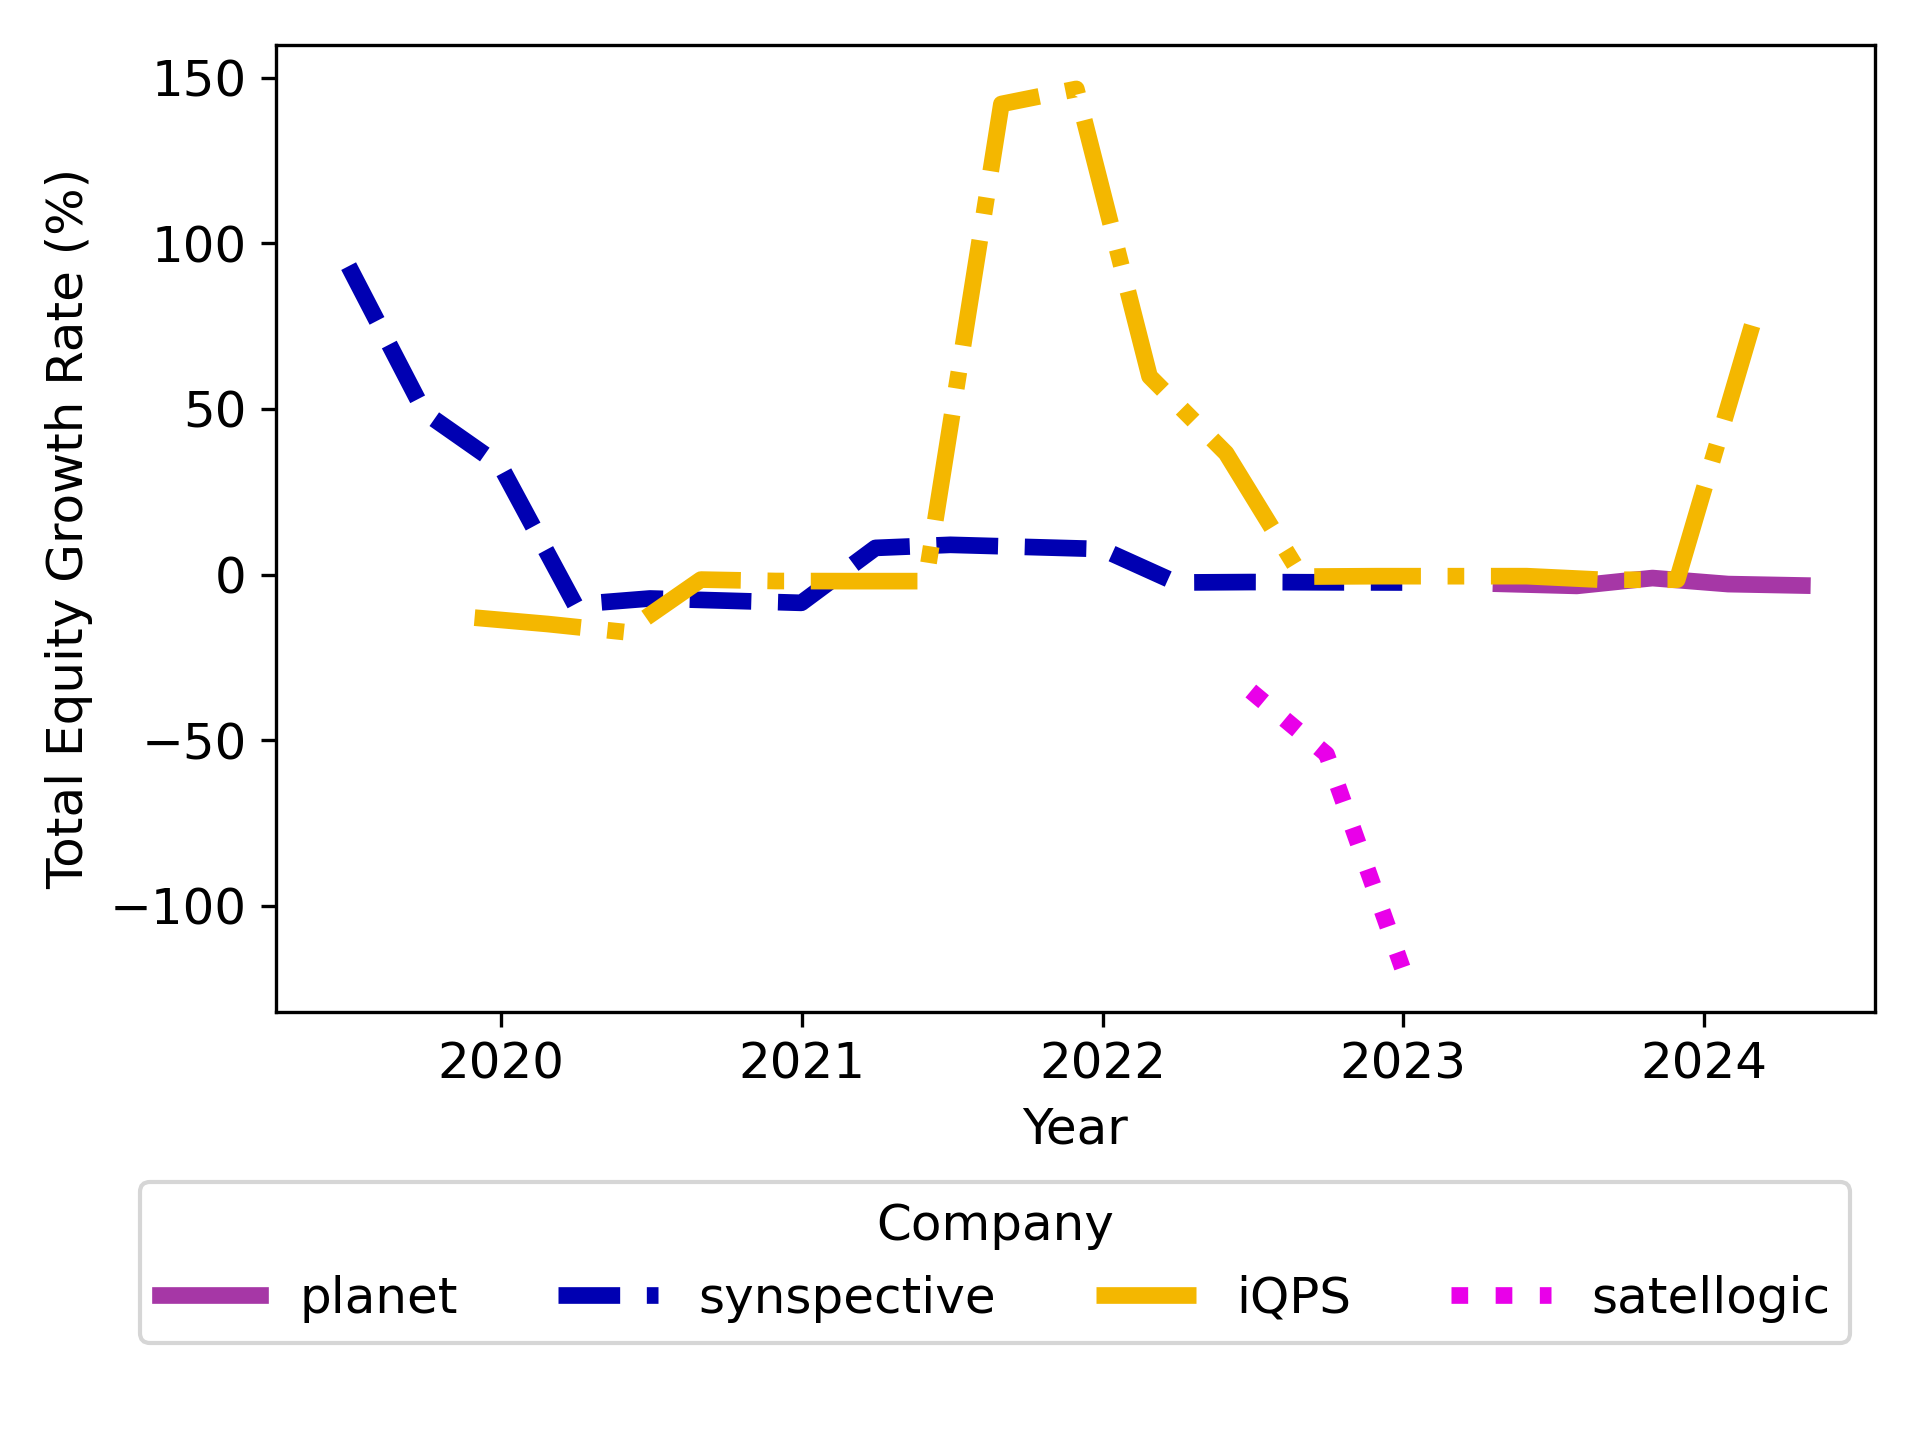
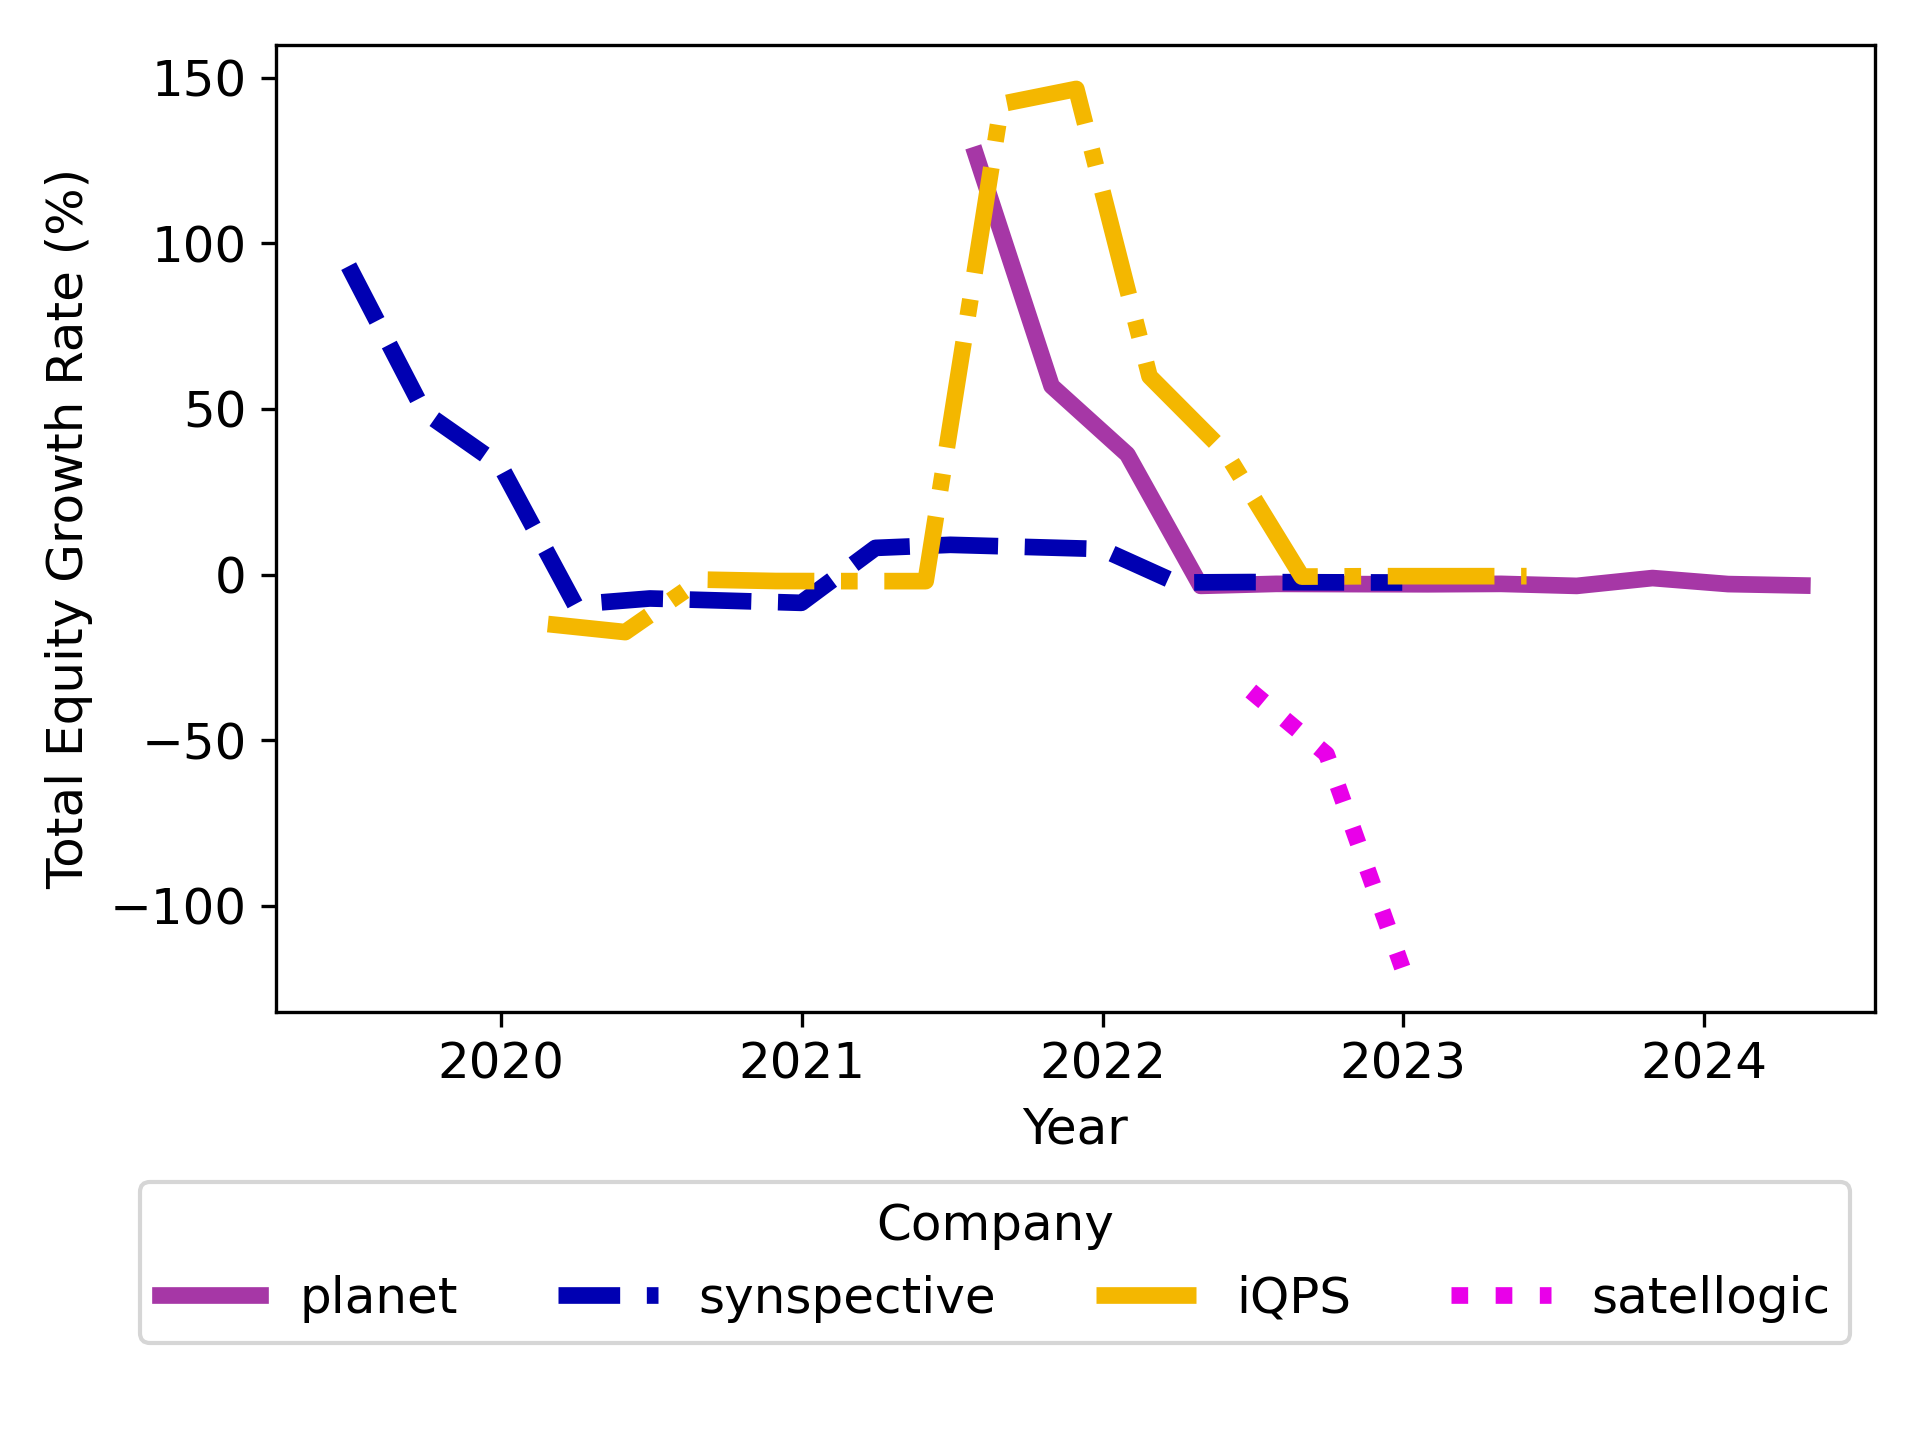
[RESTRUCTURING] repository reorganization, updates to data_loading.py given new data

diff --git a/src/data_loading.py b/src/data_loading.py
@@ -3,25 +3,10 @@ import numpy as np
 import json
 import matplotlib.pyplot as plt
 from statsmodels.graphics.tsaplots import plot_acf, plot_pacf
-from statsmodels.tsa.stattools import adfuller
-from statsmodels.tsa.vector_ar.vecm import coint_johansen
-from statsmodels.tsa.api import VAR
-from statsmodels.tsa.vector_ar.vecm import VECM
+from utils import *
 
-def adf_test(series, name):
-    result = adfuller(series)
-    # print('ADF Statistic:', result[0])
-    # print('p-value:', result[1])
-    if result[1] < 0.05:
-        print(f'{name} is stationary')
-    else:
-        print(f'{name} is non-stationary')
-
-# Store company-specific parameters (plotting style, name, filename)
-# in a json dictionary for later lookup
-company_keys = './company_keys.json'
-sheet_name = 'consolidated'
-
+# Lookup company-specific parameters from dictionary (plotting style, name, filename)
+company_keys = './financial_data/company_keys.json'
 keys = json.load(open(company_keys))
 
 # Set up plotting parameters outside of for loop.
@@ -59,18 +44,35 @@ for i, key in enumerate(keys):
     print("KEY: ", key)
     filename = keys[f"{key}"]["file"]
     data = pd.read_excel(f"./financial_data/{filename}","consolidated")
-        
-    totalAssets = data["Total Assets"]
-    totalLiabilities = data["Total Liabilities"]
-    totalEquity = data["Total Equity"]
+
+    start_date = pd.to_datetime(keys[f"{key}"]["start_date"])
+    end_date = pd.to_datetime(keys[f"{key}"]["end_date"])
+    data['Quarter'] = pd.to_datetime(data['Quarter'])
+
+    filtered_data = data[data['Quarter'].between(start_date, end_date)]
+    
+    totalAssets = filtered_data["Total Assets"].values
+    totalLiabilities = filtered_data["Total Liabilities"].values
+    totalEquity = filtered_data["Total Equity"].values
+    if key == "synspective" or key == "satellogic":
+        print("not enough revenue data")
+    else:
+        revenue = filtered_data["Revenue"].values
+        diffRevenue = np.diff(revenue)
+        diff2Revenue = np.diff(diffRevenue)
+        lnRevenue = np.log(revenue)
+        adf_test(revenue, "revenue")
+        adf_test(lnRevenue, "lnRevenue")
+        adf_test(diffRevenue, "diffRevenue")
+        adf_test(diff2Revenue, "diff2Revenue")
 
     # Transformed data
     diffAssets = np.diff(totalAssets)
     diffLiabilities = np.diff(totalLiabilities)
     diffEquity = np.diff(totalEquity)
     diff2Assets = np.diff(np.diff(totalAssets))
-    diff2Liabilities = np.diff(np.diff(totalLiabilities))
-    diff2Equity = np.diff(np.diff(totalEquity))
+    diff2Liabilities = np.diff(diffLiabilities)
+    diff2Equity = np.diff(diffEquity)
     lnAssets = np.log(totalAssets)
     lnLiabilities = np.log(totalLiabilities)
     lnEquity = np.log(totalEquity)
@@ -92,38 +94,14 @@ for i, key in enumerate(keys):
     except:
         print("Error in testing for stationarity.")
 
-    frame = np.column_stack((diff2Assets,diff2Liabilities,diff2Equity))
+    frame = np.column_stack((diffAssets,diffLiabilities))
 
     try:
-        # Perform Johansen cointegration test
-        johansen_result = coint_johansen(frame, 0, 1)
-        # print('Eigenvalues:', johansen_result.eig)
-        # print('Trace Statistic:', johansen_result.lr1)
-        # print('Critical Values:', johansen_result.cvt)
-
-        # Determine the optimal lag length
-        model = VAR(frame)
-        lag_order = model.select_order()
-
-        # Choose an available criterion, e.g., 'aic', 'bic', 'hqic'
-        if 'aic' in lag_order.selected_orders:
-            chosen_lag = lag_order.selected_orders['aic']
-        elif 'bic' in lag_order.selected_orders:
-            chosen_lag = lag_order.selected_orders['bic']
-        elif 'hqic' in lag_order.selected_orders:
-            chosen_lag = lag_order.selected_orders['hqic']
-        else:
-            raise ValueError("No valid criterion found in the selected orders.")
-
-        print(f'Chosen lag length based on available criterion: {chosen_lag}')
-
-        # coint_rank is number of non-zero eigenvalues minus 1
-        vecm = VECM(frame, k_ar_diff=chosen_lag, coint_rank=1, dates=data["Quarter"])
-        vecm_fit = vecm.fit()
+        vecm = johansen_vecm(filtered_data["Quarter"][2:], frame)
+        print(vecm.summary())
     except:
         print(f"skipping {key} vecm")
-    # print(vecm_fit.summary())
-
+    
     logAssets = np.diff(lnAssets)
     logLiabilities = np.diff(lnLiabilities)
     logEquity = np.diff(lnEquity)
@@ -131,14 +109,14 @@ for i, key in enumerate(keys):
     divLiabilities = []
     divEquity = []
     for j in range(1, len(diffAssets)):
-        divAssets.append(((diffAssets[j]/totalAssets[j-1]))*100)
-        divLiabilities.append(((diffLiabilities[j]/totalLiabilities[j-1]))*100)
-        divEquity.append(((diffEquity[j]/totalEquity[j-1]))*100)
+        divAssets.append((diffAssets[j]/totalAssets[j-1])*100)
+        divLiabilities.append((diffLiabilities[j]/totalLiabilities[j-1])*100)
+        divEquity.append((diffEquity[j]/totalEquity[j-1])*100)
 
     companyColor = np.asarray(keys[key]["color"])/255
-    ax1.plot(data["Quarter"][2:], divAssets, color=companyColor, linestyle=keys[key]["style"], label=key, linewidth=4)
-    ax2.plot(data["Quarter"][2:], divLiabilities, color=companyColor, linestyle=keys[key]["style"], label=key, linewidth=4)
-    ax3.plot(data["Quarter"][2:], divEquity, color=companyColor, linestyle=keys[key]["style"], label=key, linewidth=4)
+    ax1.plot(filtered_data["Quarter"][2:], divAssets, color=companyColor, linestyle=keys[key]["style"], label=key, linewidth=4)
+    ax2.plot(filtered_data["Quarter"][2:], divLiabilities, color=companyColor, linestyle=keys[key]["style"], label=key, linewidth=4)
+    ax3.plot(filtered_data["Quarter"][2:], divEquity, color=companyColor, linestyle=keys[key]["style"], label=key, linewidth=4)
     plot_acf(logAssets, lags=3, title=key, ax = ax4[i//2, i%2], color = 'red')
     plot_pacf(logAssets, lags=2, title=key, ax = ax5[i//2, i%2], color = 'red')
 

diff --git a/src/utils.py b/src/utils.py
@@ -1,0 +1,41 @@
+from statsmodels.tsa.stattools import adfuller
+from statsmodels.tsa.vector_ar.vecm import coint_johansen
+from statsmodels.tsa.api import VAR
+from statsmodels.tsa.vector_ar.vecm import VECM
+
+def adf_test(series, name):
+    result = adfuller(series)
+    # print('ADF Statistic:', result[0])
+    # print('p-value:', result[1])
+    if result[1] < 0.05:
+        print(f'{name} is stationary')
+    else:
+        print(f'{name} is non-stationary')
+    
+def johansen_vecm(date_range, frame):
+    # Perform Johansen cointegration test
+    johansen_result = coint_johansen(frame, 0, 1)
+    # print('Eigenvalues:', johansen_result.eig)
+    # print('Trace Statistic:', johansen_result.lr1)
+    # print('Critical Values:', johansen_result.cvt)
+
+    # Determine the optimal lag length
+    model = VAR(frame)
+    lag_order = model.select_order()
+
+    # Choose an available criterion, e.g., 'aic', 'bic', 'hqic'
+    if 'aic' in lag_order.selected_orders:
+        chosen_lag = lag_order.selected_orders['aic']
+    elif 'bic' in lag_order.selected_orders:
+        chosen_lag = lag_order.selected_orders['bic']
+    elif 'hqic' in lag_order.selected_orders:
+        chosen_lag = lag_order.selected_orders['hqic']
+    else:
+        raise ValueError("No valid criterion found in the selected orders.")
+
+    print(f'Chosen lag length based on available criterion: {chosen_lag}')
+
+    # coint_rank is number of non-zero eigenvalues minus 1
+    vecm = VECM(frame, k_ar_diff=chosen_lag, coint_rank=1, dates=date_range)
+    vecm_fit = vecm.fit()
+    return vecm_fit

diff --git a/src/test.py b/src/test.py
@@ -1,0 +1,42 @@
+import matplotlib.pyplot as plt
+import matplotlib.dates as mdates
+import pandas as pd
+from datetime import datetime
+
+# Example event data
+events = [
+    {'date': '2024-01-01', 'event': 'New Year'},
+    {'date': '2024-02-14', 'event': 'Valentine\'s Day'},
+    {'date': '2024-04-01', 'event': 'April Fool\'s Day'},
+    {'date': '2024-07-04', 'event': 'Independence Day'},
+    {'date': '2024-10-31', 'event': 'Halloween'},
+    {'date': '2024-12-25', 'event': 'Christmas'}
+]
+
+# Convert to DataFrame and parse dates
+df = pd.DataFrame(events)
+df['date'] = pd.to_datetime(df['date'])
+
+# Plot the timeline
+fig, ax = plt.subplots(figsize=(10, 3))
+
+# Plot the events
+ax.plot(df['date'], [1] * len(df), "|", ms=50, color='gray')
+
+# Annotate the events
+for idx, row in df.iterrows():
+    ax.text(row['date'], 1.1, row['event'], rotation=45, ha='right')
+
+# Format the x-axis
+ax.get_yaxis().set_visible(False)
+ax.xaxis.set_major_locator(mdates.MonthLocator())
+ax.xaxis.set_major_formatter(mdates.DateFormatter('%Y-%m-%d'))
+plt.setp(ax.get_xticklabels(), rotation=45, ha='right')
+
+# Add grid and title
+ax.grid(True, which='both', linestyle='--', linewidth=0.5)
+# plt.title('Timeline of Events in 2024')
+
+# Adjust layout
+plt.tight_layout()
+fig.savefig(f"./images/test.png")
